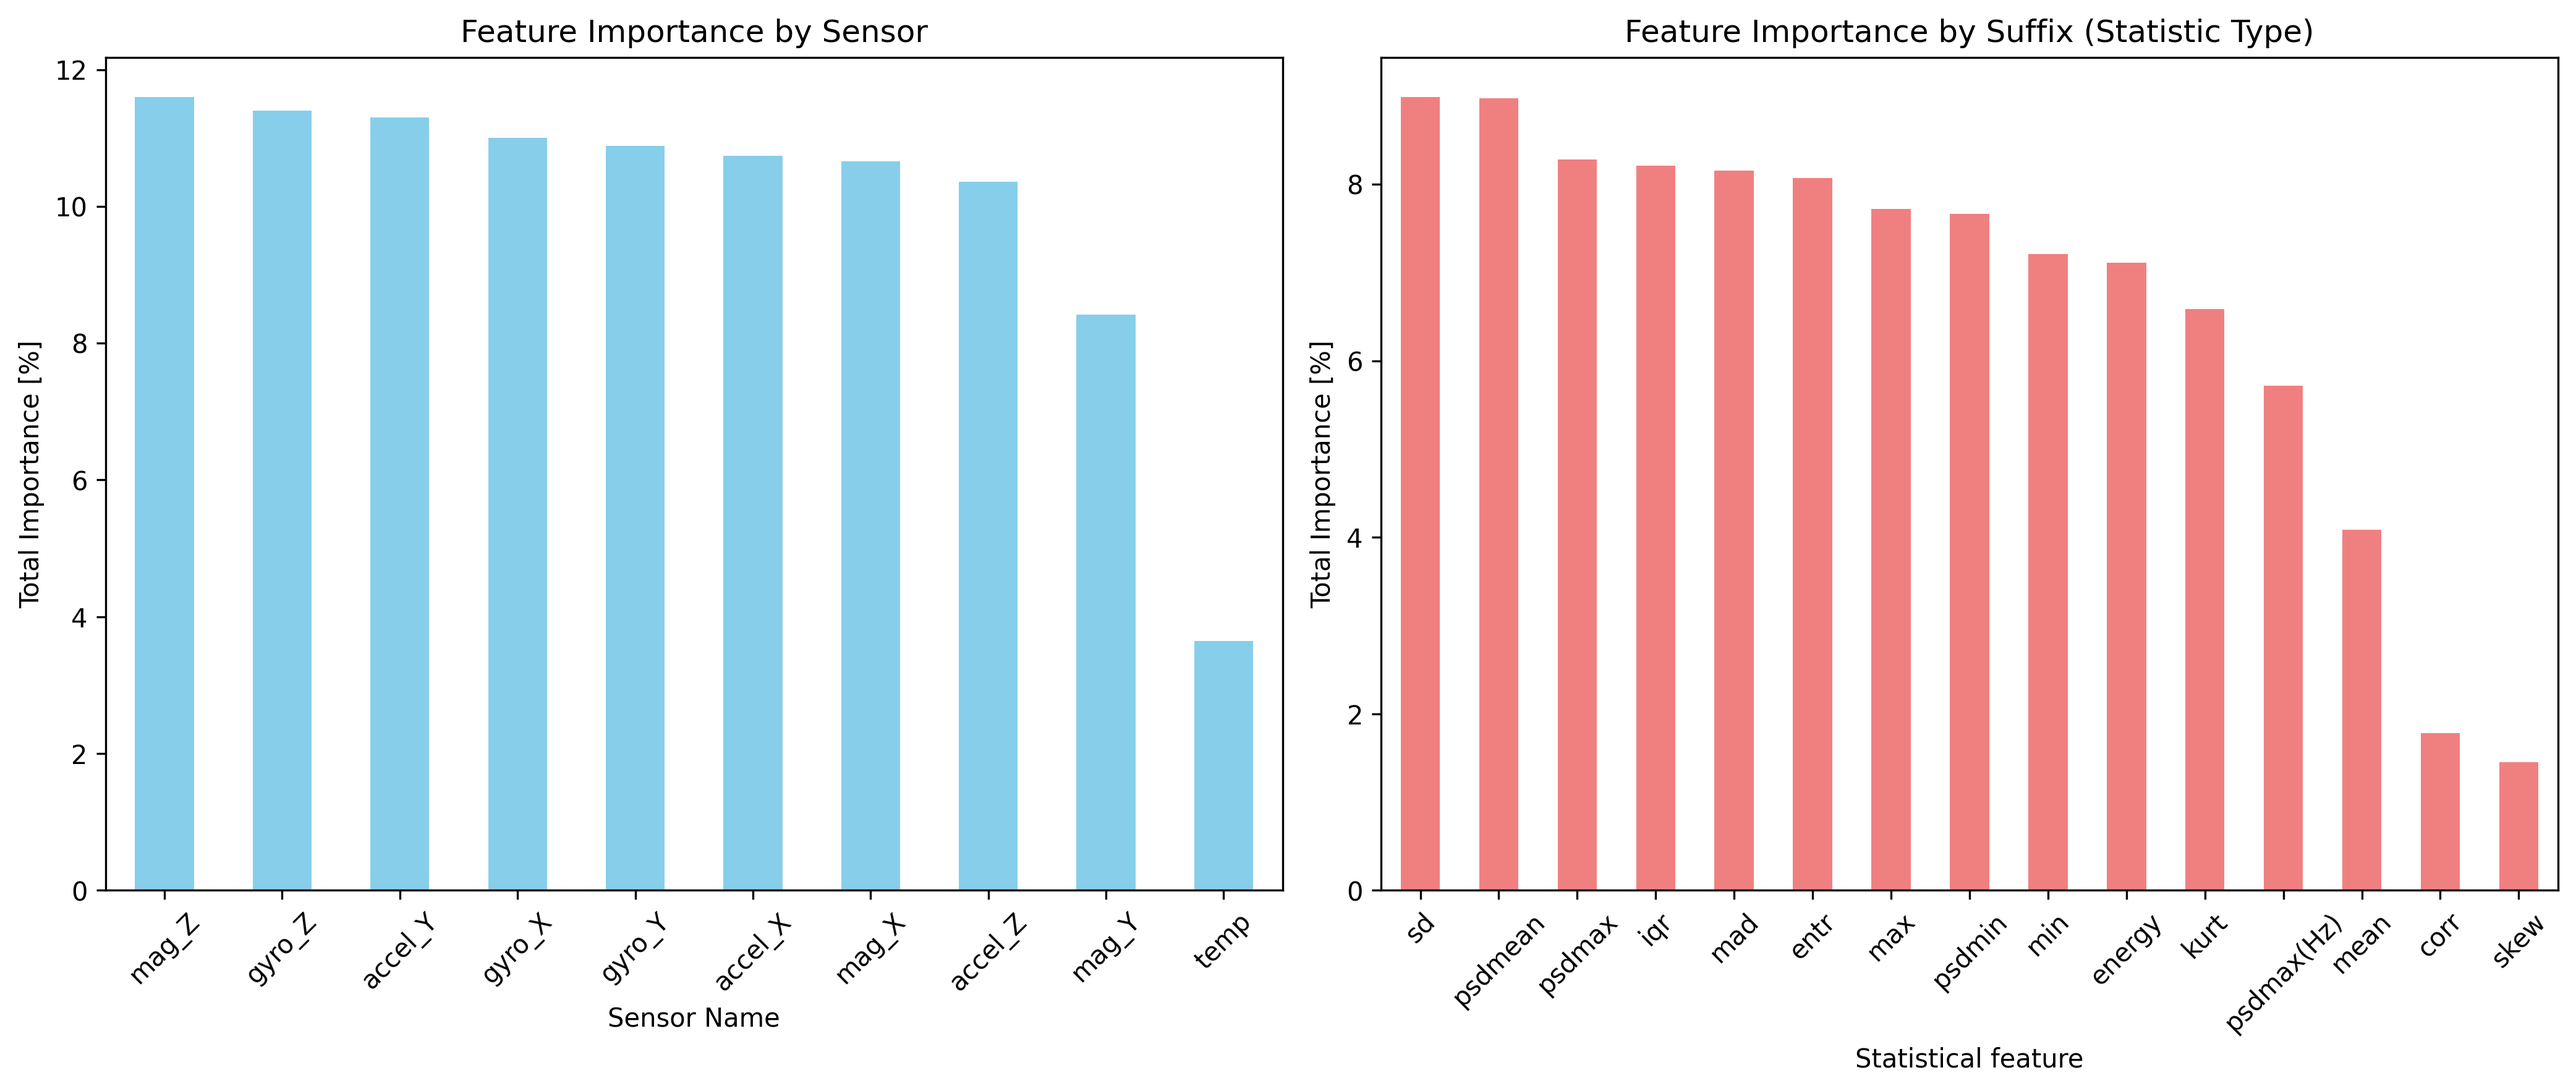
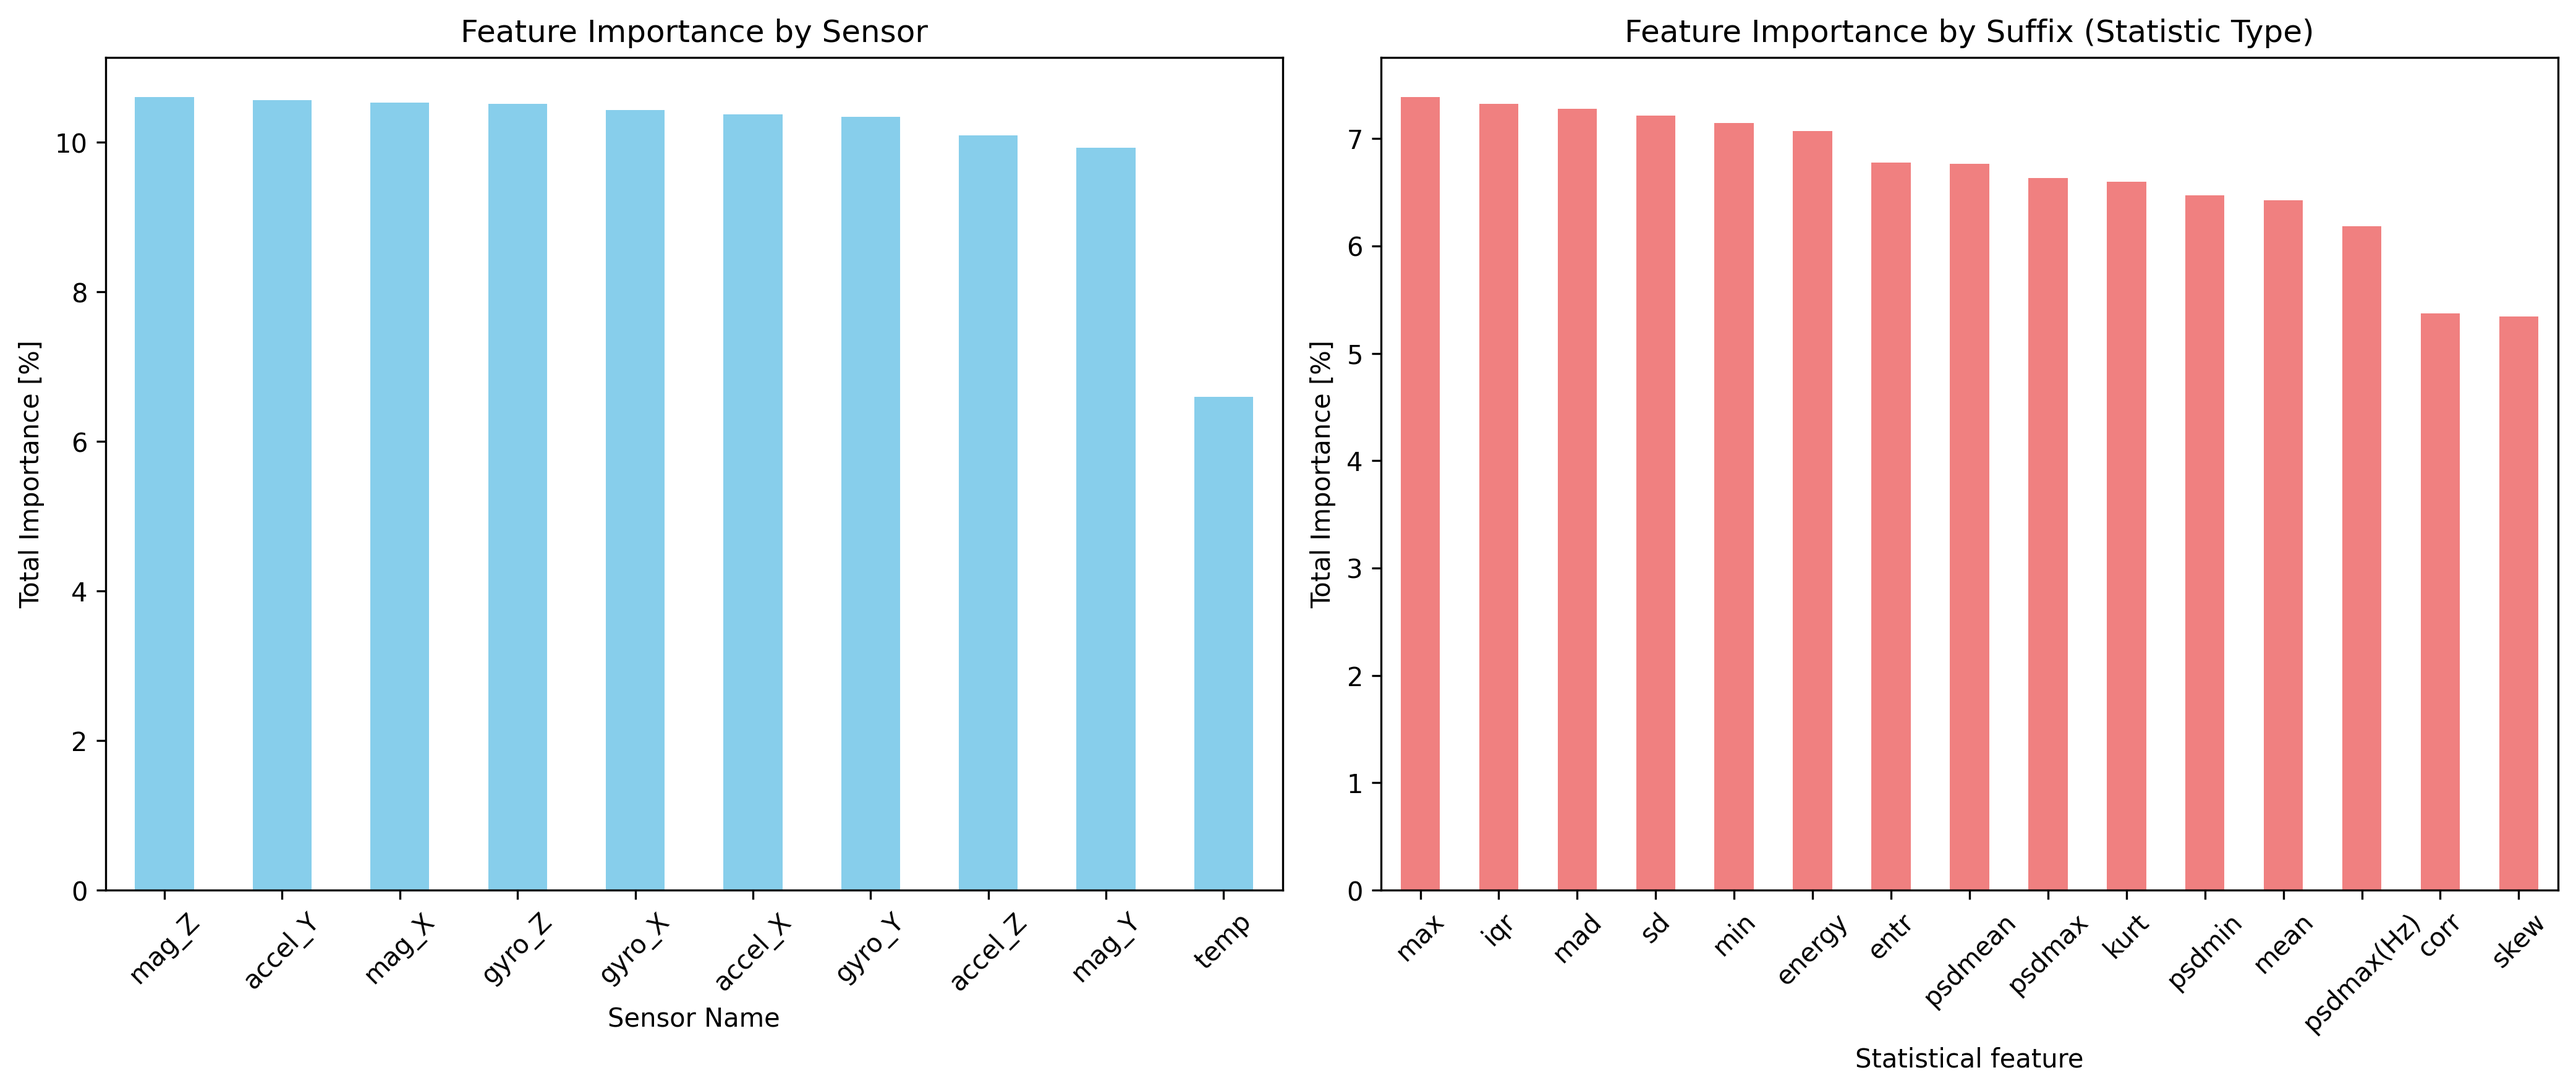
comment back inn plots

diff --git a/main.py b/main.py
@@ -198,27 +198,27 @@ def main(
         
         ''' CONFUSION MATRIX '''
 
-        #fig_0 = plotLearningCurve(n_results, PCA_train_df, train_labels)
+        fig_0 = plotLearningCurve(n_results, PCA_train_df, train_labels)
 
-        #fig_1 = confusionMatrix(test_labels, PCA_test_df, activity_name, result)
+        fig_1 = confusionMatrix(test_labels, PCA_test_df, activity_name, result)
         
         ''' FEATURE IMPORTANCE '''
         
-        #fig_list_0  = plotPCATable(PCA_final, features_per_table=28) 
+        fig_list_0  = plotPCATable(PCA_final, features_per_table=28) 
 
-        #fig_list_1  = plotFeatureImportance(PCA_final, original_feature_names) 
+        fig_list_1  = plotFeatureImportance(PCA_final, original_feature_names) 
 
-        #fig_2       = screePlot(PCA_final)
+        fig_2       = screePlot(PCA_final)
         
         ''' PLOTS OF PCA '''
         
-        #fig_3 = biplot(feature_df, scaler, window_labels, label_mapping, window_length_seconds)
+        fig_3 = biplot(feature_df, scaler, window_labels, label_mapping, window_length_seconds)
 
-        #fig_4 = biplot3D(feature_df, scaler, window_labels, label_mapping, window_length_seconds)
+        fig_4 = biplot3D(feature_df, scaler, window_labels, label_mapping, window_length_seconds)
         
-        fig_5 = plotDecisionBoundaries(PCA_train_df, train_labels, label_mapping, n_results, accuracy_list, cmap_name)
+        # fig_5 = plotDecisionBoundaries(PCA_train_df, train_labels, label_mapping, n_results, accuracy_list, cmap_name)
 
-        #fig_6 = datasetOverview(window_labels, window_length_seconds, test_size)
+        fig_6 = datasetOverview(window_labels, window_length_seconds, test_size)
 
         plots = {
             'Learning curve': fig_0,

diff --git a/config.py b/config.py
@@ -39,7 +39,7 @@ main_config = {
     ],
 
     # --- DATASET & MODELING VARIABLES ---
-    'variance_explained':       2,
+    'variance_explained':       0.95,
     'random_seed':              42,
     'window_length_seconds':    20,
     'test_size':                0.25,
